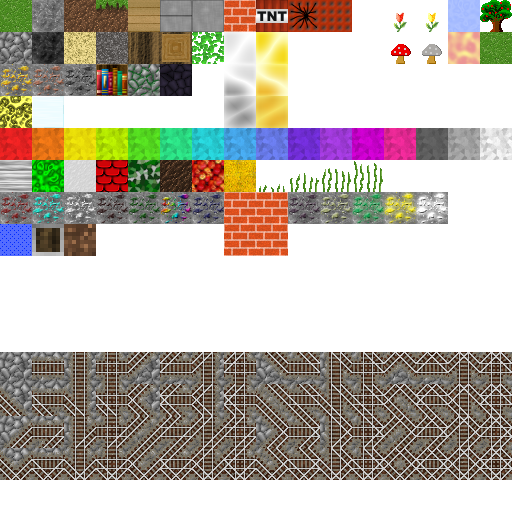
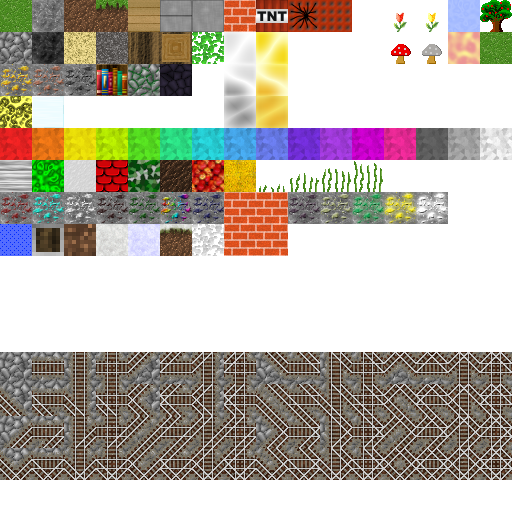
In winter draw snow and ice instead of grass and water. Do blocks loop and season change every 6 hours.

Changed region(s): [[0.1875, 0.4375, 0.4375, 0.5]]

diff --git a/GameModeFortress/ModeFortress.cs b/GameModeFortress/ModeFortress.cs
@@ -243,7 +243,12 @@ namespace GameModeFortress
             }
         }
     }
+    public interface ICurrentSeason
+    {
+        int CurrentSeason { get; }
+    }
     public class GameFortress : IGameMode, IGameWorld, IMapStorage, IClients, ITerrainInfo, IGameWorldTodo
+        , ICurrentSeason
     {
         [Inject]
         public WorldGeneratorSandbox worldgeneratorsandbox { get; set; }
@@ -1221,7 +1226,8 @@ namespace GameModeFortress
         public float SIMULATION_STEP_LENGTH = 1f / 64f;
         int blocksiteration = 0;
         public int BLOCKSLOOP_BLOCKS_PER_FRAME = 10;
-        public int BLOCKSLOOP_EVERY_SECONDS = 10 * 60;
+        public int BLOCKSLOOP_EVERY_SECONDS = 6 * 60 * 60;
+        public int SEASON_EVERY_SECONDS = 6 * 60 * 60;
         void BlocksLoop()
         {
             if (map.blockslist.Count == 0)
@@ -1397,7 +1403,18 @@ namespace GameModeFortress
                 UpdateRailVehicle(dt, i);
             }
             BlocksLoop();
+            if (simulationcurrentframe % (int)((SEASON_EVERY_SECONDS) / SIMULATION_STEP_LENGTH) == 0)
+            {
+                CurrentSeason++;
+                if (CurrentSeason >= 4)
+                {
+                    CurrentSeason = 0;
+                }
+                terrain.UpdateAllTiles();
+            }
         }
+        int currentseason = 0;
+        public int CurrentSeason { get { return currentseason; } set { currentseason = value; } }
         private bool IsShadow(int x, int y, int z)
         {
             for (int i = 1; i < 10; i++)
@@ -2641,6 +2658,7 @@ namespace GameModeFortress
     }
     public class GameDataTilesManicDigger : IGameData
     {
+        public ICurrentSeason CurrentSeason { get; set; }
         public GameDataTilesMinecraft data = new GameDataTilesMinecraft();
         public GameDataTilesManicDigger()
         {
@@ -2662,6 +2680,32 @@ namespace GameModeFortress
         #region IGameData Members
         public int GetTileTextureId(int tileType, TileSide side)
         {
+            if (CurrentSeason.CurrentSeason == 3)
+            {
+                if (tileType == (int)TileTypeMinecraft.Grass)
+                {
+                    if (side == TileSide.Top)
+                    {
+                        return (7 * 16) + 3;
+                    }
+                    if (side == TileSide.Bottom)
+                    {
+                        goto standard;
+                    }
+                    return (7 * 16) + 5;
+                }
+                if (tileType == (int)TileTypeMinecraft.Water
+                    || tileType == (int)TileTypeMinecraft.StationaryWater
+                    || tileType == (int)TileTypeMinecraft.InfiniteWaterSource)
+                {
+                    return (7 * 16) + 4;
+                }
+                if (tileType == (int)TileTypeMinecraft.Leaves)
+                {
+                    return (7 * 16) + 6;
+                }
+            }
+            standard:
             if (datanew[tileType] != null)
             {
                 if (side == TileSide.Top)
@@ -2736,6 +2780,15 @@ namespace GameModeFortress
         }
         public bool IsWaterTile(int tiletype)
         {
+            if (CurrentSeason.CurrentSeason == 3)
+            {
+                if (tiletype == (int)TileTypeMinecraft.Water
+                    || tiletype == (int)TileTypeMinecraft.StationaryWater
+                    || tiletype == (int)TileTypeMinecraft.InfiniteWaterSource)
+                {
+                    return false;
+                }
+            }
             return data.IsWaterTile(tiletype);
         }
         public bool IsBuildableTile(int tiletype)

diff --git a/ManicDiggerServer/Program.cs b/ManicDiggerServer/Program.cs
@@ -812,6 +812,7 @@ namespace ManicDiggerServer
 
             var g = new GameModeFortress.GameFortress();
             var data = new GameModeFortress.GameDataTilesManicDigger();
+            data.CurrentSeason = g;
             g.audio = new AudioDummy();
             g.data = data;
             var gen = new GameModeFortress.WorldGeneratorSandbox();

diff --git a/GameModeFortress/Program.cs b/GameModeFortress/Program.cs
@@ -102,6 +102,7 @@ namespace GameModeFortress
         {
             var gamedata = new GameDataTilesManicDigger();
             var clientgame = new GameFortress();
+            gamedata.CurrentSeason = clientgame;
             INetworkClient network;
             if (singleplayer)
             {
